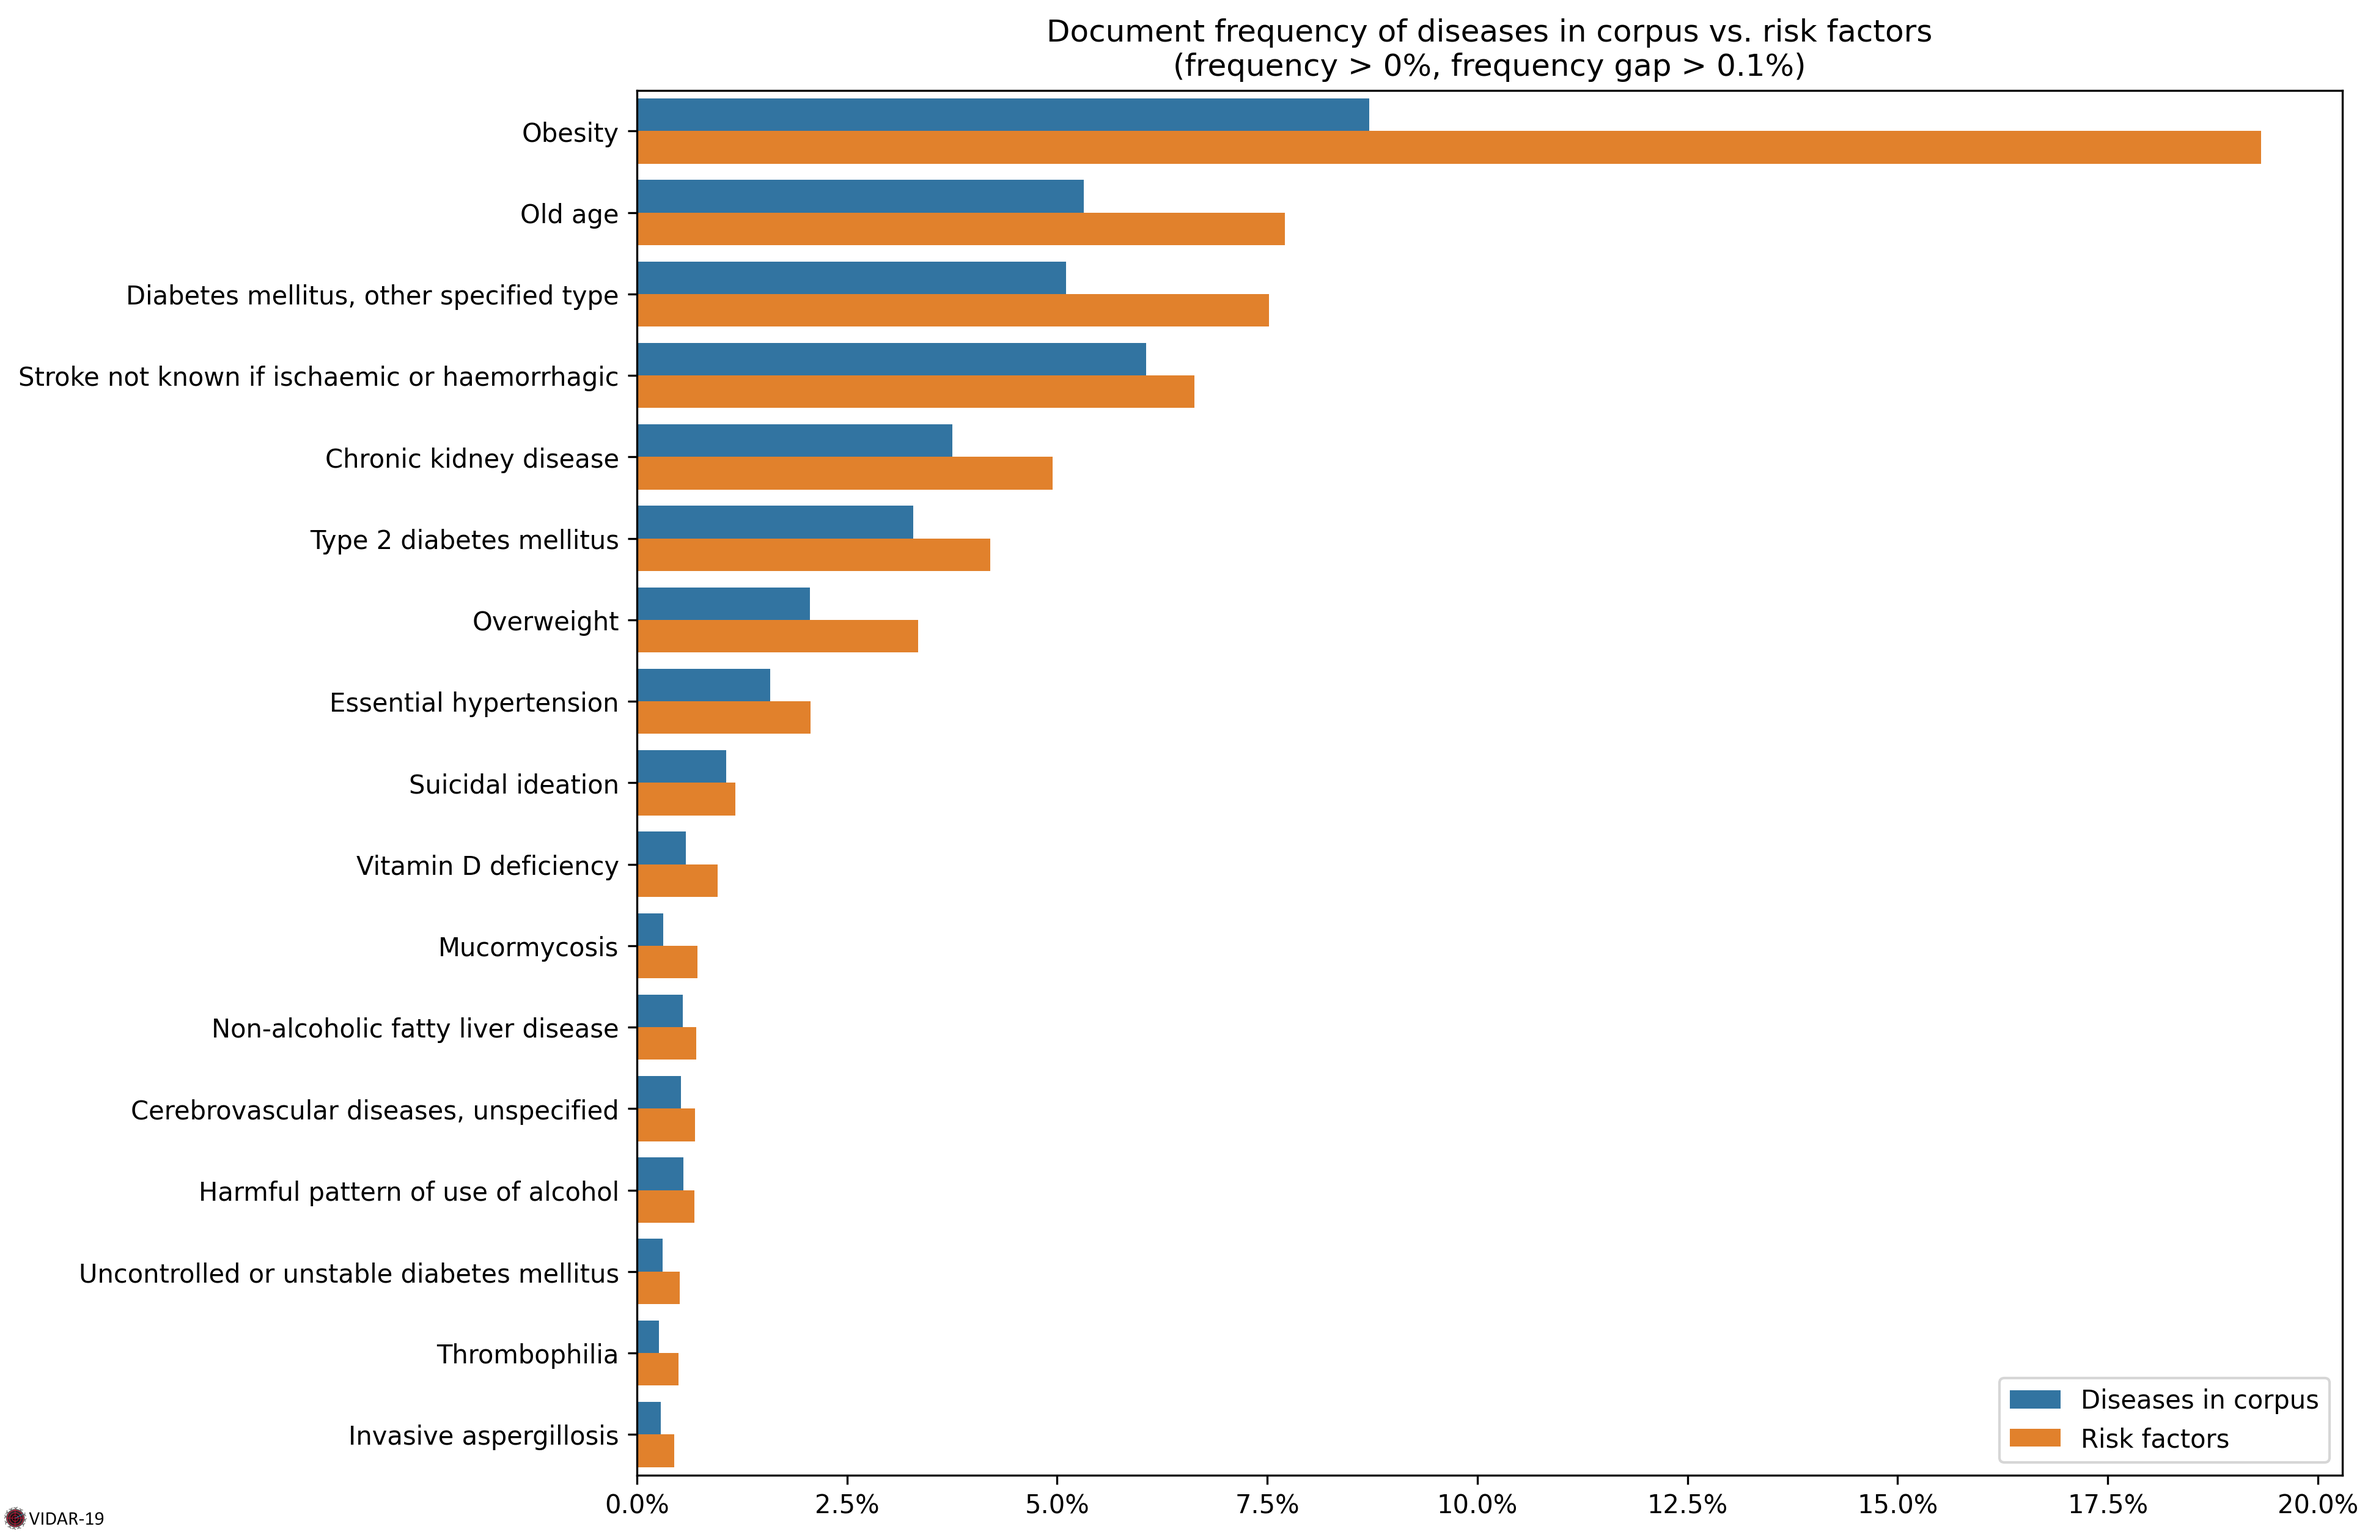
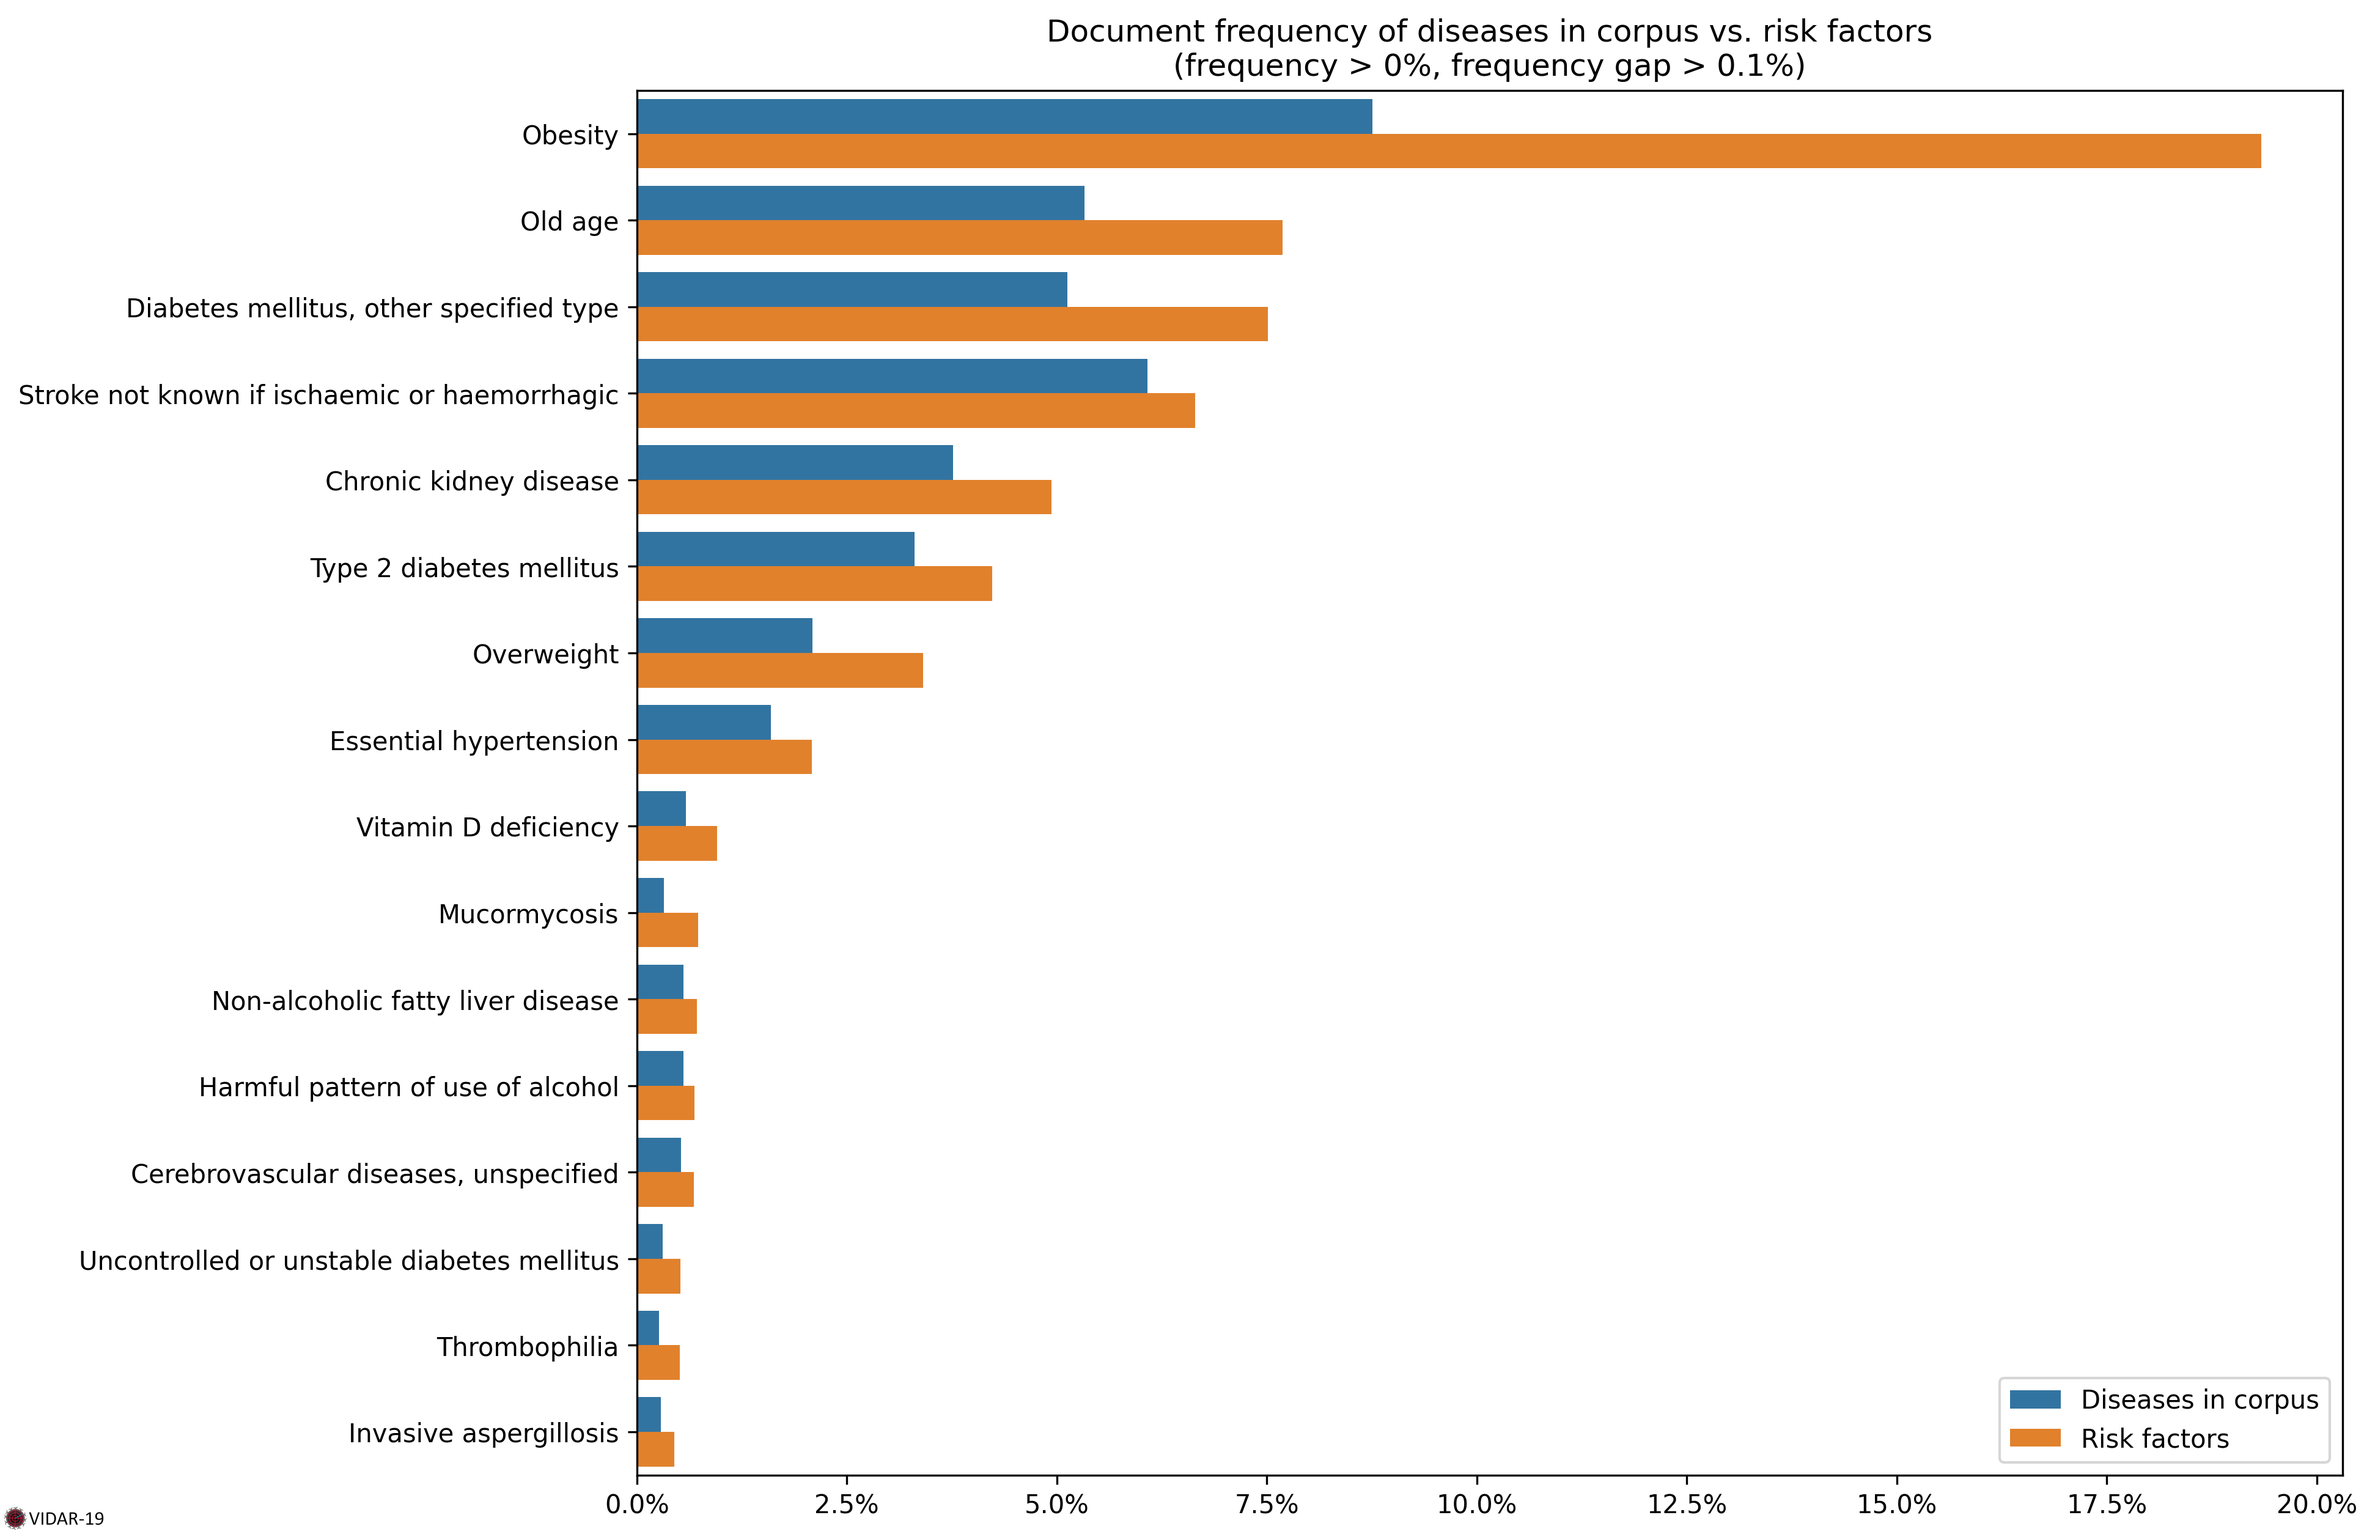
update 03/01/2022

diff --git a/extra-dose-side-effects.md b/extra-dose-side-effects.md
@@ -1,6 +1,6 @@
 # Extra Dose Side Effects
 
-As of 20/12/2021, extra dose side effects have been computed on 3K documents dealing with COVID-19 extra doses.
+As of 3/01/2022, extra dose side effects have been computed on 3K documents dealing with COVID-19 extra doses.
 
 ![VIDAR-19](https://fran6wol.eu.pythonanywhere.com/assets/img/vidar_wm2.png)
 
@@ -12,18 +12,18 @@ As of 20/12/2021, extra dose side effects have been computed on 3K documents dea
 
 | Code    | Title                                        | Diseases in corpus | Side effects | Ratio |
 | :------ | :------------------------------------------- | -----------------: | -----------: | ----: |
-| NF09    | Adverse effects, not elsewhere classified    |               18.9 |         43.9 |   2.3 |
-| MG3Z    | Pain, unspecified                            |               24.3 |         33.1 |   1.4 |
-| FB56.2  | Myalgia                                      |               13.5 |         16.5 |   1.2 |
-| MD90.0  | Nausea                                       |               11.6 |         14.6 |   1.3 |
-| 4A84    | Anaphylaxis                                  |                8.6 |         13.9 |   1.6 |
-| MG21    | Chills                                       |                9.9 |           13 |   1.3 |
-| ME66.6  | Rash                                         |               10.3 |         11.8 |   1.2 |
-| ME82    | Pain in joint                                |                7.9 |          9.5 |   1.2 |
-| ME64.0  | Erythema                                     |                  7 |          7.6 |   1.1 |
-| 4B00.0  | Neutropenia                                  |                5.6 |          6.3 |   1.1 |
-| MB48    | Dizziness and giddiness                      |                4.4 |          5.5 |   1.3 |
-| 8C73.1  | Neuropathy, ataxia, and retinitis pigmentosa |                3.7 |            4 |   1.1 |
-| EB05    | Urticaria of unspecified type                |                1.5 |          2.1 |   1.4 |
-| EA80    | Atopic eczema                                |                1.7 |            2 |   1.1 |
-| DA01.11 | Oral mucositis                               |                0.6 |          1.1 |   1.8 |
+| NF09    | Adverse effects, not elsewhere classified    |               18.6 |         44.1 |   2.4 |
+| MG3Z    | Pain, unspecified                            |               23.7 |         33.1 |   1.4 |
+| FB56.2  | Myalgia                                      |               13.2 |         16.8 |   1.3 |
+| MD90.0  | Nausea                                       |               11.3 |         14.3 |   1.3 |
+| 4A84    | Anaphylaxis                                  |                8.3 |         13.7 |   1.6 |
+| MG21    | Chills                                       |                9.8 |         12.9 |   1.3 |
+| ME66.6  | Rash                                         |                9.8 |         11.5 |   1.2 |
+| ME82    | Pain in joint                                |                7.8 |          9.5 |   1.2 |
+| ME64.0  | Erythema                                     |                6.8 |          7.5 |   1.1 |
+| 4B00.0  | Neutropenia                                  |                5.3 |            6 |   1.1 |
+| MB48    | Dizziness and giddiness                      |                4.3 |          5.4 |   1.3 |
+| 8C73.1  | Neuropathy, ataxia, and retinitis pigmentosa |                3.5 |          3.8 |   1.1 |
+| EB05    | Urticaria of unspecified type                |                1.5 |            2 |   1.4 |
+| EA80    | Atopic eczema                                |                1.7 |            2 |   1.2 |
+| DA01.11 | Oral mucositis                               |                0.6 |            1 |   1.8 |

diff --git a/vaccines-side-effects.md b/vaccines-side-effects.md
@@ -1,6 +1,6 @@
 # Vaccines Side Effects
 
-As of 20/12/2021, vaccines side effects have been computed on 15K documents dealing with COVID-19 vaccines.
+As of 3/01/2022, vaccines side effects have been computed on 16K documents dealing with COVID-19 vaccines.
 
 ![VIDAR-19](https://fran6wol.eu.pythonanywhere.com/assets/img/vidar_wm2.png)
 
@@ -13,21 +13,21 @@ As of 20/12/2021, vaccines side effects have been computed on 15K documents deal
 | Code   | Title                                     | Diseases in corpus | Side effects | Ratio |
 | :----- | :---------------------------------------- | -----------------: | -----------: | ----: |
 | NF09   | Adverse effects, not elsewhere classified |               14.6 |         39.2 |   2.7 |
-| MG3Z   | Pain, unspecified                         |               18.7 |           25 |   1.3 |
-| FB56.2 | Myalgia                                   |               10.6 |         13.4 |   1.3 |
+| MG3Z   | Pain, unspecified                         |               18.7 |         25.1 |   1.3 |
+| FB56.2 | Myalgia                                   |               10.7 |         13.6 |   1.3 |
 | 4A84   | Anaphylaxis                               |                5.8 |         11.6 |     2 |
-| 3B64   | Thrombocytopenia                          |                9.9 |         11.6 |   1.2 |
-| MD90.0 | Nausea                                    |                8.7 |         11.1 |   1.3 |
+| 3B64   | Thrombocytopenia                          |                9.9 |         11.5 |   1.2 |
+| MD90.0 | Nausea                                    |                8.7 |         11.2 |   1.3 |
 | MG21   | Chills                                    |                6.7 |         10.3 |   1.5 |
 | ME82   | Pain in joint                             |                5.2 |          7.6 |   1.5 |
-| ME66.6 | Rash                                      |                5.5 |          6.6 |   1.2 |
-| BC42   | Myocarditis                               |                  5 |          5.3 |   1.1 |
-| MA01   | Enlarged lymph nodes                      |                3.4 |            4 |   1.2 |
+| ME66.6 | Rash                                      |                5.5 |          6.5 |   1.2 |
+| BC42   | Myocarditis                               |                5.1 |          5.5 |   1.1 |
+| MA01   | Enlarged lymph nodes                      |                3.4 |          4.1 |   1.2 |
 | ME64.0 | Erythema                                  |                3.2 |          3.9 |   1.2 |
-| MB48   | Dizziness and giddiness                   |                2.9 |          3.2 |   1.1 |
+| MB48   | Dizziness and giddiness                   |                2.9 |          3.3 |   1.1 |
 | BB2Z   | Pericarditis, unspecified                 |                2.1 |          2.5 |   1.2 |
 | EC90   | Pruritus                                  |                1.9 |          2.4 |   1.2 |
-| 8A41.0 | Transverse myelitis                       |                1.3 |            2 |   1.6 |
+| 8A41.0 | Transverse myelitis                       |                1.3 |          1.9 |   1.5 |
+| MB22.7 | Tiredness                                 |                1.3 |          1.4 |   1.1 |
 | BB20.2 | Myopericarditis                           |                0.7 |          0.9 |   1.3 |
-| MC41   | Tinnitus                                  |                0.4 |          0.6 |   1.4 |
-| JA01   | Ectopic pregnancy                         |                0.2 |          0.3 |   1.5 |
+| MC41   | Tinnitus                                  |                0.4 |          0.5 |   1.5 |

diff --git a/covid-19-risk-factors.md b/covid-19-risk-factors.md
@@ -2,7 +2,7 @@
 
 
 
-As of 20/12/2021, risk factors have been computed on 221K documents dealing with SARS-CoV-2 and COVID-19.
+As of 3/01/2022, risk factors have been computed on 226K documents dealing with SARS-CoV-2 and COVID-19.
 
 ![VIDAR-19](https://fran6wol.eu.pythonanywhere.com/assets/img/vidar_wm2.png)
 
@@ -12,22 +12,21 @@ As of 20/12/2021, risk factors have been computed on 221K documents dealing with
 
 ### Table
 
-| ode    | Title                                         | Diseases in corpus | Risk factors | Ratio |
+| Code   | Title                                         | Diseases in corpus | Risk factors | Ratio |
 | :----- | :-------------------------------------------- | -----------------: | -----------: | ----: |
-| 5B81   | Obesity                                       |                8.7 |         19.3 |   2.2 |
+| 5B81   | Obesity                                       |                8.8 |         19.3 |   2.2 |
 | MG2A   | Old age                                       |                5.3 |          7.7 |   1.4 |
 | 5A13   | Diabetes mellitus, other specified type       |                5.1 |          7.5 |   1.5 |
 | 8B20   | Stroke not known if ischaemic or haemorrhagic |                6.1 |          6.6 |   1.1 |
 | GB61   | Chronic kidney disease                        |                3.8 |          4.9 |   1.3 |
 | 5A11   | Type 2 diabetes mellitus                      |                3.3 |          4.2 |   1.3 |
-| 5B80.0 | Overweight                                    |                2.1 |          3.3 |   1.6 |
+| 5B80.0 | Overweight                                    |                2.1 |          3.4 |   1.6 |
 | BA00   | Essential hypertension                        |                1.6 |          2.1 |   1.3 |
-| MB26.A | Suicidal ideation                             |                1.1 |          1.2 |   1.1 |
-| 5B57   | Vitamin D deficiency                          |                0.6 |            1 |   1.7 |
+| 5B57   | Vitamin D deficiency                          |                0.6 |            1 |   1.6 |
 | 1F2C   | Mucormycosis                                  |                0.3 |          0.7 |   2.3 |
-| DB92   | Non-alcoholic fatty liver disease             |                0.5 |          0.7 |   1.3 |
-| 8B2Z   | Cerebrovascular diseases, unspecified         |                0.5 |          0.7 |   1.3 |
+| DB92   | Non-alcoholic fatty liver disease             |                0.6 |          0.7 |   1.3 |
 | 6C40.1 | Harmful pattern of use of alcohol             |                0.6 |          0.7 |   1.2 |
+| 8B2Z   | Cerebrovascular diseases, unspecified         |                0.5 |          0.7 |   1.3 |
 | 5A24   | Uncontrolled or unstable diabetes mellitus    |                0.3 |          0.5 |   1.7 |
 | 3B61   | Thrombophilia                                 |                0.3 |          0.5 |   1.9 |
 | 1F20.0 | Invasive aspergillosis                        |                0.3 |          0.4 |   1.6 |
